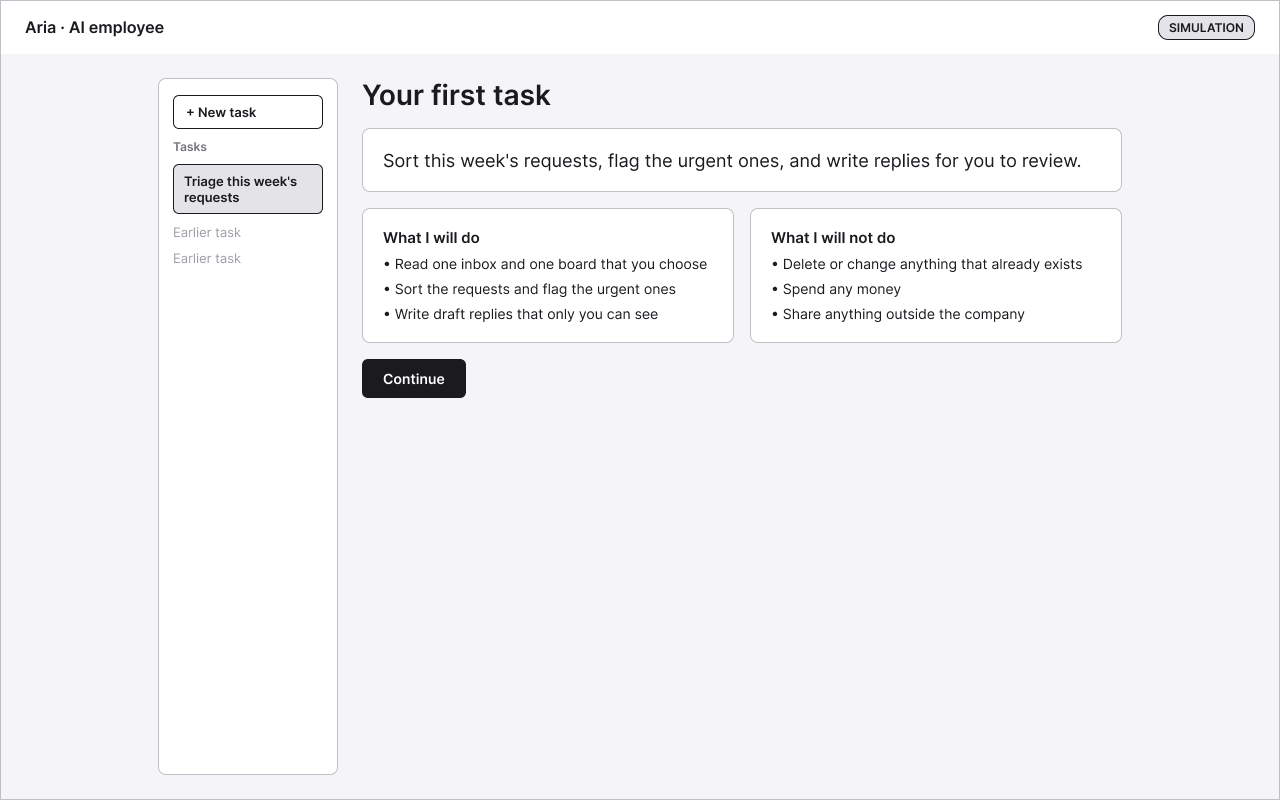
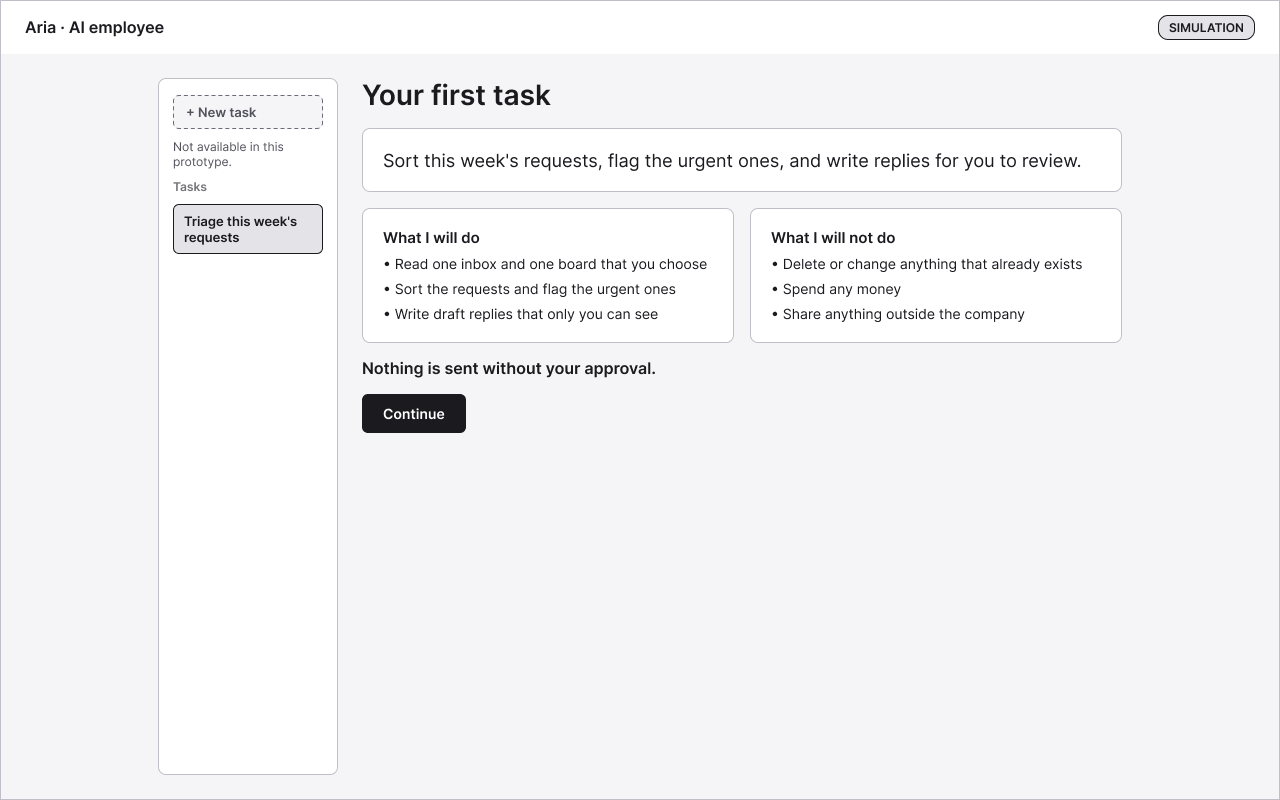
Update wireframes to 19 screens and align brief and decisions
Wireframes: add the access Not now flow, last-stage stop, second send
and summary variants, apply accessibility fixes, and add an overview
image. Remove superseded exports.

Docs: record the new behaviour in the brief and decisions 18 to 23,
and add notes to the design README.

Changed region(s): [[0.125, 0.125, 0.25, 0.3438], [0.2812, 0.4375, 0.5, 0.5625]]

diff --git a/docs/brief.md b/docs/brief.md
@@ -20,11 +20,13 @@ Maya runs operations at a fictional 30-person company. She uses chat AI tools. S
 
 Maya's first task: sort this week's requests, flag the urgent ones, and draft replies for her to review.
 
-1. **Task and limits.** Maya opens the workspace and sees one suggested task. Plain lines say what the AI will read. They also say it cannot delete or change anything, spend money or share outside the company. Nothing is sent without her say-so.
-   Done when: the task and all three limits are on screen in plain words, and no technical terms appear.
+1. **Task and limits.** Maya opens the workspace and sees one suggested task. Plain lines say what the AI will read. They also say it cannot delete or change anything, spend money or share outside the company. Nothing is sent without her approval.
+   Done when: the task, all three limits and the line "Nothing is sent without your approval." are on screen in plain words, and no technical terms appear.
 
 2. **Granting access.** A pop-up over the workspace asks to read one fictional inbox and one board. Maya picks "Grant access" or "Not now".
-   Done when: the pop-up names the inbox and board. "Not now" closes it and nothing starts. After she grants access, both names stay visible on every later screen.
+   Done when: the pop-up names the inbox and board. After "Not now", the pop-up stays for about 5 seconds, counts down on screen and shows that nothing was granted (the requested items are struck through). A "Back to task now" link lets her return sooner. Then it closes and returns Maya to the task screen. Returning does not send another access request. Nothing is read or started.
+   After "Not now", the task screen keeps showing that access was denied: a banner and a status chip. Its button changes from "Continue" to "Request access again". Pressing it opens the same pop-up, asking for the same two sources. Nothing is granted automatically. If she chooses "Not now" again, the same steps repeat. If she grants access, the flow continues.
+   After she grants access, both names stay visible on every later screen.
 
 3. **The plan.** A short plan appears in plain words and lists the stages ahead.
    Done when: the plan shows before any work starts, and work starts without Maya clicking anything.
@@ -33,10 +35,11 @@ Maya's first task: sort this week's requests, flag the urgent ones, and draft re
    Done when: the log gains a plain-language line for each stage, and the marked stage changes as the work moves on.
 
 5. **Stop.** A Stop button is available while the AI works. After Maya presses it, the screen says "Stop requested. It will take effect at the next checkpoint, so it may not be instant." Maya can then press Continue.
-   Done when: pressing Stop shows that message at once, the work halts at the next checkpoint and not before, and the log records both the request and the halt.
+   Exception: if she presses Stop in the last stage (draft), the work finishes that stage, the results appear, nothing is sent and there is no Continue. The screen says so.
+   Done when: pressing Stop shows that message at once, the work halts at the next checkpoint and not before, and the log records both the request and the halt. In the last stage, the log records the request and that it took effect after the drafts were written.
 
-6. **Results and drafts.** Maya sees the sorted, ranked requests and the draft replies. Each draft is marked "Not sent". There are at least four drafts, two of them sendable.
-   Done when: every draft shows "Not sent", and the requests appear in a ranked order with the urgent ones flagged.
+6. **Results and drafts.** Maya sees the sorted, ranked requests and the draft replies. Each draft is marked "Not sent". There are four drafts, and only two can be sent: the replies to Lena Brandt and Sam Okafor. Each one answers its request with a direct reply. Lena's says the Q3 expense report has been received and will be reviewed by the end of the week. Sam's confirms the office move walkthrough at 10:00 and says a calendar invite will follow. The other two cannot be sent here: Tomasz's says the budget must be checked first, and Ava's proposes talking next week.
+   Done when: every draft shows "Not sent", the requests appear in a ranked order with the urgent ones flagged, and the screen says which two drafts can be sent.
 
 7. **The flawed draft.** One draft has a small mistake. It says Thursday where the request said Friday.
    Done when: the wrong day is in the draft, and nothing on screen highlights it or warns about it.
@@ -44,10 +47,10 @@ Maya's first task: sort this week's requests, flag the urgent ones, and draft re
 8. **Editing.** Maya can open any draft and change the text.
    Done when: a saved edit changes the text, the draft still shows "Not sent", and the log has a line for the edit.
 
-9. **Sending.** A plain "Send" option sits beside the sendable drafts. It is visible and labelled, but not highlighted, and the AI does not prompt her. When she picks it, a statement says: "This goes to someone other than you and may not be undone." The recipient is a fictional colleague, for example "Sam Okafor". She chooses Authorise or Cancel.
-   Done when: the statement shows before anything is sent. Authorise sends that one message only, as a simulation. The log records it. No undo is shown. Sending a second message needs a new Authorise.
+9. **Sending.** A plain "Send" option sits beside the sendable drafts. It is visible and labelled, but not highlighted, and the AI does not prompt her. When she picks it, a statement says: "This goes to someone other than you and may not be undone." The recipient is a fictional colleague, for example "Sam Okafor". She chooses Authorise or Cancel. She can send a draft with or without editing it first.
+   Done when: the statement shows before anything is sent. Authorise sends that one message only, as a simulation. The log records it. No undo is shown. A sent draft is locked: it cannot be edited or sent again. Sending a second message needs its own Authorise, and its dialog says the earlier approval does not carry over.
 
-10. **Closing summary.** A short summary says what the AI did, what it did not do, and what Maya still controls.
+10. **Closing summary.** Maya starts it herself with "Finish and view summary", available once the results are shown, whether or not she sent anything. A short summary says what the AI did, what it did not do, and what Maya still controls. It reads correctly if no message, one message or two messages were sent.
     Done when: every action in the summary also appears in the log, and it claims nothing the simulation did not do.
 
 ## What the AI may do

diff --git a/design/README.md b/design/README.md
@@ -1,19 +1,30 @@
 # Wireframes
 
-Low-fidelity screens for the inbox triage scene, one per step. All names, companies and messages are fictional.
+Low-fidelity screens for the inbox triage scene, in step order. All names, companies and messages are fictional.
 
 | Step | Screen |
 |---|---|
+| All | [00-overview.png](wireframes/00-overview.png) (all 19 screens on one page) |
 | 1. Task and limits | [01-task-and-limits.png](wireframes/01-task-and-limits.png) |
 | 2. Granting access (pop-up) | [02-access-popup.png](wireframes/02-access-popup.png) |
-| 3. The plan | [03-plan.png](wireframes/03-plan.png) |
-| 4. The AI works in stages | [04-working.png](wireframes/04-working.png) |
-| 5. Stop requested | [05-stop-requested.png](wireframes/05-stop-requested.png) |
-| 5. Paused, Continue available | [06-paused.png](wireframes/06-paused.png) |
-| 6 and 7. Results and drafts | [07-results-and-drafts.png](wireframes/07-results-and-drafts.png) |
-| 8. Editing a draft | [08-edit-a-draft.png](wireframes/08-edit-a-draft.png) |
-| 9. Authorise one send | [09-authorise-send.png](wireframes/09-authorise-send.png) |
-| 9. After sending (simulated) | [10-sent.png](wireframes/10-sent.png) |
-| 10. Closing summary | [11-closing-summary.png](wireframes/11-closing-summary.png) |
+| 2. Access pop-up after Not now | [03-access-popup-after-not-now.png](wireframes/03-access-popup-after-not-now.png) |
+| 2. Task screen after Not now | [01b-task-and-limits-after-not-now.png](wireframes/01b-task-and-limits-after-not-now.png) |
+| 3. The plan | [04-plan.png](wireframes/04-plan.png) |
+| 4. The AI works in stages | [05-working.png](wireframes/05-working.png) |
+| 5. Stop requested | [06-stop-requested.png](wireframes/06-stop-requested.png) |
+| 5. Paused, Continue available | [07-paused.png](wireframes/07-paused.png) |
+| 5. Stop requested in the last stage | [08-stop-in-last-stage.png](wireframes/08-stop-in-last-stage.png) |
+| 5. Results after a stop in the last stage | [09-results-after-last-stage-stop.png](wireframes/09-results-after-last-stage-stop.png) |
+| 6 and 7. Results and drafts | [10-results-and-drafts.png](wireframes/10-results-and-drafts.png) |
+| 8. Editing a draft | [11-edit-a-draft.png](wireframes/11-edit-a-draft.png) |
+| 9. Authorise one send | [12-authorise-send.png](wireframes/12-authorise-send.png) |
+| 9. After sending (simulated) | [13-sent.png](wireframes/13-sent.png) |
+| 9. Authorise a second send | [14-authorise-second-send.png](wireframes/14-authorise-second-send.png) |
+| 9. After the second send (simulated) | [15-both-sent.png](wireframes/15-both-sent.png) |
+| 10. Summary, no messages sent | [16-summary-no-messages-sent.png](wireframes/16-summary-no-messages-sent.png) |
+| 10. Summary, one message sent | [17-summary-one-message-sent.png](wireframes/17-summary-one-message-sent.png) |
+| 10. Summary, two messages sent | [18-summary-two-messages-sent.png](wireframes/18-summary-two-messages-sent.png) |
+
+The access pop-up (screen 02) is one shared dialog. It opens from the first task screen (01) and from the task screen after "Not now" (01b). When it opens from 01b, the task screen behind it keeps the "Access not granted" banner, the status chip and the "Request access again" button. The dimmed background in the frame for screen 02 is illustrative only.
 
 The steps are described in [docs/brief.md](../docs/brief.md).

diff --git a/docs/decisions.md b/docs/decisions.md
@@ -19,5 +19,11 @@ One line each: the choice, then why.
 15. **The send recipient is a fictional colleague.** The AI never shares outside the company, so the send must not contradict that.
 16. **No generic "AI can make mistakes" line.** It would hint at the planted error and spoil the test.
 17. **Maya can press Continue after a stop.** Otherwise an early stop ends the scene before the draft and send, and we learn nothing.
+18. **A stop in the last stage lets the work finish.** The results appear, nothing is sent and there is no Continue. This is an exception to the next-checkpoint rule in decision 10. The screen says so.
+19. **Only the replies to Lena and Sam can be sent.** Each one answers its request with a direct reply. Lena's says the Q3 expense report has been received and will be reviewed by the end of the week. Sam's confirms the office move walkthrough at 10:00 and says a calendar invite will follow. Tomasz's draft says the budget must be checked first, and Ava's proposes talking next week.
+20. **Maya starts the move to the summary herself** with "Finish and view summary".
+21. **Sending a draft without editing it is allowed.** Editing is optional. Each send still needs its own explicit approval.
+22. **A sent draft is locked.** It cannot be edited or sent again.
+23. **After "Not now", Maya asks for access again herself.** The task screen keeps showing that access was denied, and its button reads "Request access again" instead of "Continue". The button opens the same access pop-up. Returning from "Not now" never sends a new request by itself, so the decision stays with Maya, and the button says what will happen before she clicks it.
 
 Also decided: no progressive autonomy in this prototype, because it is not needed to test the hypothesis.

diff --git a/README.md b/README.md
@@ -20,11 +20,11 @@ Someone who is familiar with tools like ChatGPT but has never delegated meaningf
 
 ## Planned prototype
 
-A small general AI employee workspace with one working scene, in which Maya delegates inbox triage (other tasks are not built): the AI sorts and flags requests and drafts replies. Everything stays private and read-only until Maya explicitly authorises one specific acknowledgement to be sent. That approval covers that single action only.
+A small general AI employee workspace with one working scene, in which Maya delegates inbox triage (other tasks are not built): the AI sorts and flags requests and drafts replies. Everything stays private and read-only until Maya explicitly authorises a send. Either of two specific replies can be sent, and each needs its own separate approval. An approval covers that single action only.
 
 Control is shown through a plan before action, a visible activity log and a stop control. Sending cannot be undone, and the interface says so.
 
-![Results and drafts wireframe](design/wireframes/07-results-and-drafts.png)
+![Wireframes overview](design/wireframes/00-overview.png)
 
 All wireframes are in [design/](design/README.md).
 
